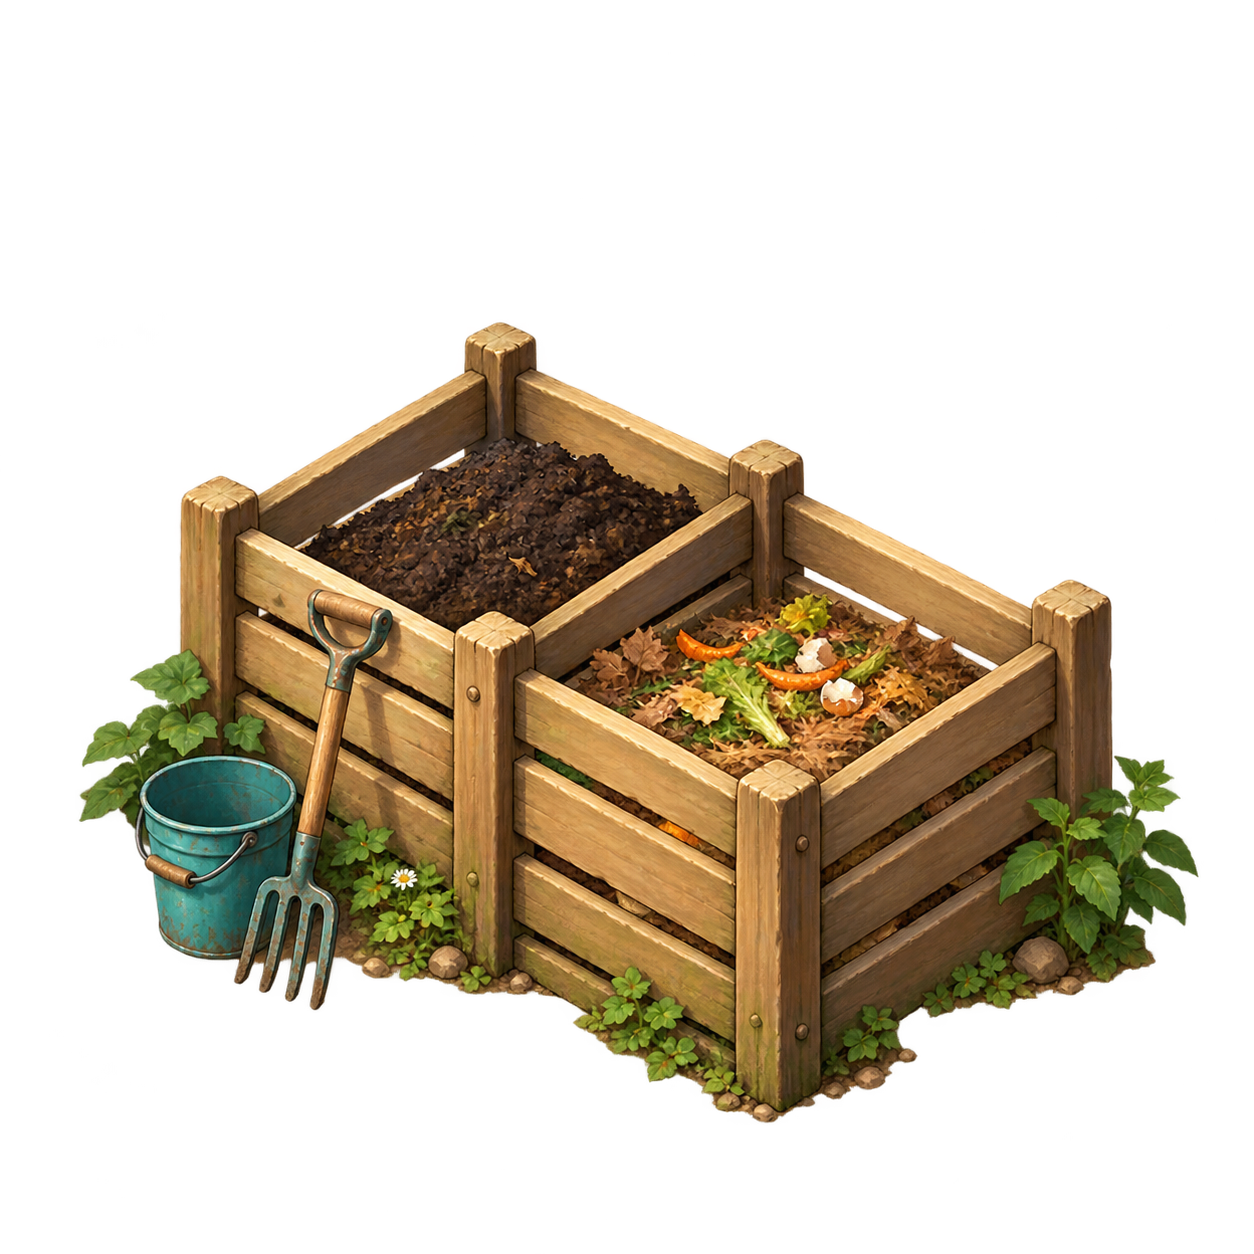
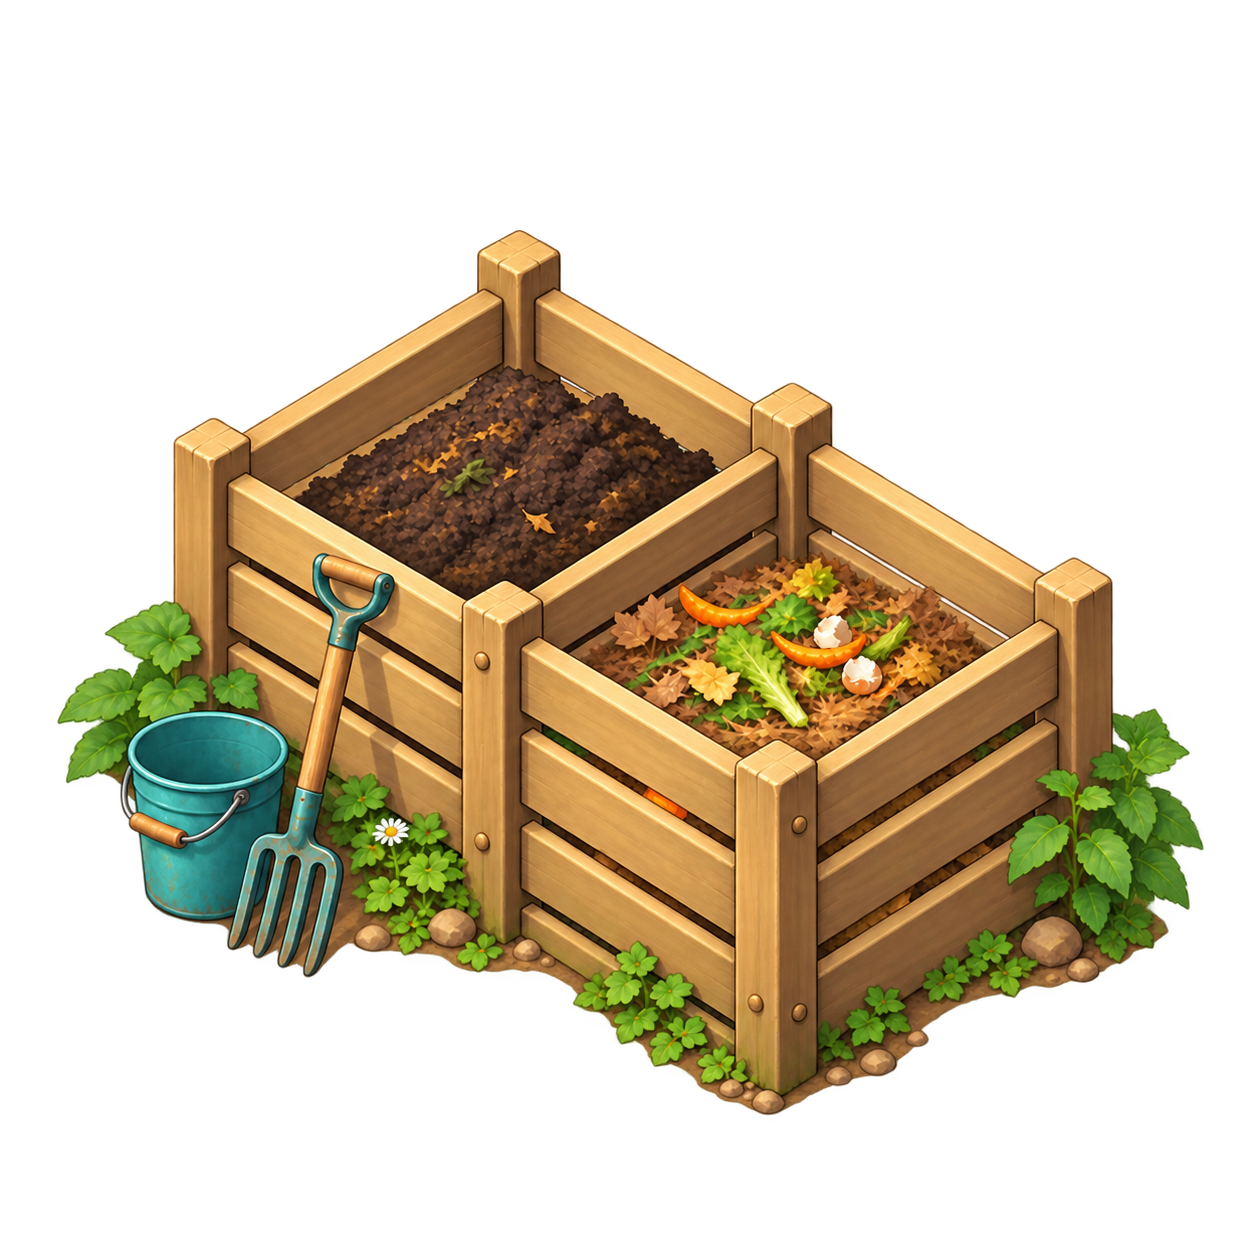
Unify building scales and camera calibration; remove obsolete sprites

diff --git a/web/artwork/index.html b/web/artwork/index.html
@@ -3,4 +3,4 @@
 <body><header><div><span class="eyebrow">SOLAR FRIENDS / DEVELOPMENT</span><h1>Artwork studio<span>✳</span></h1><p>A shared view of the village. One detail at a time.</p></div><a href="/">← Back to village</a></header>
 <main><section class="toolbar" aria-label="Library filters"><label>Find a sprite<input id="search" type="search" placeholder="Name, source file…"></label><label>Collection<select id="group"><option>All collections</option></select></label><label>Usage<select id="usage"><option>All artwork</option><option>Active</option><option>Reference</option></select></label><label>Review<select id="review-filter"><option>All reviews</option><option>Unreviewed</option><option>Needs work</option><option>Consistent</option></select></label><button id="export">Export review</button></section>
 <section class="workspace"><div class="library"><div class="section-title"><h2>Sprite library</h2><span id="count"></span></div><p class="hint">Select a sprite to inspect. Pin others for comparison.</p><div id="cards"></div></div>
-<aside><div class="section-title"><h2>Focus bench</h2><button id="clear">Clear pins</button></div><div class="controls"><label>Surface<select id="surface"><option value="checker">Transparency</option><option value="meadow">Meadow</option><option value="light">Light</option><option value="dark">Dark</option></select></label><label>Scale<select id="scale"><option value="fit">Fit each sprite</option><option value="game">Game scale × 1</option><option value="2">Game scale × 2</option></select></label><label><input id="guides" type="checkbox" checked> Ground guides</label></div><div class="controls"><label>Action<select id="action"><option value="0">Walk</option><option value="1">Build</option><option value="2">Idle</option><option value="3">Sit / sleep</option></select></label><button id="play" aria-pressed="false">Play animation</button><label>Frame <input id="frame" type="range" min="0" max="3" value="0"></label><label><input id="mirror" type="checkbox"> Mirror</label></div><div id="bench"></div><section class="review-panel"><span class="eyebrow">FOCUSED REVIEW</span><h3 id="selected-name"></h3><a id="source" target="_blank" rel="noopener">Open source artwork ↗</a><p id="metadata" class="hint"></p><label>Consistency status<select id="status"><option>Unreviewed</option><option>Needs work</option><option>Consistent</option></select></label><label>Review notes<textarea id="notes" rows="5" placeholder="Check camera angle, relative scale, palette, upper-left light, silhouette and ground contact…"></textarea></label><p id="save-state" class="hint" role="status">Notes stay in this browser. Export to share.</p></section><details><summary>Art direction checklist</summary><p>Warm painted Brazilian ecovila. Earthy cream, terracotta, leafy greens and restrained turquoise. Shared elevated 2:1 orthographic camera; upper-left light; clean silhouettes and transparent gutters. Keep fine detail readable at game scale.</p><p>Fit mode compares style. Game scale compares runtime widths and ground anchors; vegetation is shown at its base size. Terrain is shown as a source swatch, before world projection.</p></details></aside></section></main><script type="module" src="studio.js"></script></body></html>
+<aside><div class="section-title"><h2>Focus bench</h2><button id="clear">Clear pins</button></div><div class="controls"><label>Surface<select id="surface"><option value="checker">Transparency</option><option value="meadow">Meadow</option><option value="light">Light</option><option value="dark">Dark</option></select></label><label>Scale<select id="scale"><option value="game">Game scale × 1</option><option value="fit">Fit each sprite</option><option value="2">Game scale × 2</option></select></label><label><input id="guides" type="checkbox" checked> Ground guides</label></div><div class="controls"><label>Action<select id="action"><option value="0">Walk</option><option value="1">Build</option><option value="2">Idle</option><option value="3">Sit / sleep</option></select></label><button id="play" aria-pressed="false">Play animation</button><label>Frame <input id="frame" type="range" min="0" max="3" value="0"></label><label><input id="mirror" type="checkbox"> Mirror</label></div><div id="bench"></div><section class="review-panel"><span class="eyebrow">FOCUSED REVIEW</span><h3 id="selected-name"></h3><a id="source" target="_blank" rel="noopener">Open source artwork ↗</a><p id="metadata" class="hint"></p><label>Consistency status<select id="status"><option>Unreviewed</option><option>Needs work</option><option>Consistent</option></select></label><label>Review notes<textarea id="notes" rows="5" placeholder="Check camera angle, relative scale, palette, upper-left light, silhouette and ground contact…"></textarea></label><p id="save-state" class="hint" role="status">Notes stay in this browser. Export to share.</p></section><details><summary>Art direction checklist</summary><p>Warm painted Brazilian ecovila. Earthy cream, terracotta, leafy greens and restrained turquoise. Shared elevated 2:1 orthographic camera; upper-left light; clean silhouettes and transparent gutters. Keep fine detail readable at game scale.</p><p>Fit mode compares style. Game scale compares runtime widths and ground anchors; vegetation is shown at its base size. Terrain is shown as a source swatch, before world projection.</p></details></aside></section></main><script type="module" src="studio.js"></script></body></html>

diff --git a/web/main.js b/web/main.js
@@ -1,3 +1,4 @@
+import { buildingArt, drawBuildingArt } from './building-art.js';
 import { flock, drawChicken } from "./chickens.js";
 import { quests, buildingUnlocked, questStatus } from "./quests.js?v=ecology-coop-2";
 import { loadSettings, saveSettings } from "./settings.js";
@@ -55,17 +56,11 @@ const pastimes = {
   water: "Sitting and daydreaming",
 };
 const colors = ["#d8a044", "#588b83", "#d27a59", "#6a8e58", "#8580a0"];
-const atlas = new Image();
-atlas.src = "art/village-atlas-isometric.png";
-const gardenArt = new Image();
-gardenArt.src = "art/garden-simple-isometric.png";
-const questArt = Object.fromEntries(
-  ["compost", "square", "workshop", "coop"].map((kind) => {
-    const image = new Image();
-    image.src = `art/${kind}-isometric.png${kind === "coop" ? "?v=3" : ""}`;
-    return [kind, image];
-  }),
-);
+const buildingImages = Object.fromEntries(Object.entries(buildingArt).map(([kind, art]) => {
+  const image = new Image();
+  image.src = `art/${art.file}`;
+  return [kind, image];
+}));
 const terrain = new Image();
 terrain.src = "art/terrain-atlas.png";
 const peopleArt = new Image();
@@ -85,8 +80,6 @@ const forestSpecies = [
   { name: "Embaúba", width: 113 },
   { name: "Pau-brasil", width: 125 },
 ];
-const cisternArt = new Image();
-cisternArt.src = "art/cistern-isometric.png";
 let game,
   state,
   selected = null,
@@ -271,58 +264,14 @@ function tree(x, y, s = 1, species = 0) {
     w,
   );
 }
-function sprite(kind, x, y, size, alpha = 1) {
-  if (questArt[kind]) {
-    const p = iso(x, y),
-      w = size * scale;
-    ctx.save();
-    ctx.globalAlpha = alpha;
-    ctx.drawImage(questArt[kind], p.x - w / 2, p.y - w * 0.76, w, w);
-    ctx.restore();
-    return;
-  }
-  if (kind === "garden") {
-    const p = iso(x, y),
-      w = size * scale * 1.18;
-    // Calibrate the painted bed's ~20:11 footprint to the map's 2:1 axes.
-    const h = w * (10 / 11);
-    ctx.save();
-    ctx.globalAlpha = alpha;
-    ctx.drawImage(gardenArt, p.x - w / 2, p.y - h * 0.52, w, h);
-    ctx.restore();
-    return;
-  }
-  const p = iso(x, y),
-    cell = atlas.width / 2;
-  const index = { home: 0, kitchen: 1, garden: 2, grove: 3 }[kind];
-  if (index === undefined || !atlas.complete || !atlas.naturalWidth) return;
-  ctx.save();
-  ctx.globalAlpha = alpha;
-  const w = size * scale * 1.18;
-  const groundAnchor = { home: 0.7, kitchen: 0.7, garden: 0.59, grove: 0.74 }[
-    kind
-  ];
-  ctx.drawImage(
-    atlas,
-    (index % 2) * cell,
-    Math.floor(index / 2) * cell,
-    cell,
-    cell,
-    p.x - w / 2,
-    p.y - w * groundAnchor,
-    w,
-    w,
-  );
-  ctx.restore();
+function sprite(kind, x, y, alpha = 1) {
+  const art = buildingArt[kind];
+  if (!art) return;
+  const p = iso(x, y);
+  drawBuildingArt(ctx, buildingImages[kind], art, p.x, p.y, scale, alpha);
 }
 function cistern(x, y, alpha = 1) {
-  const p = iso(x, y),
-    w = 77 * scale;
-  contactShadow(p.x, p.y + 2 * scale, 25 * scale, 12.5 * scale);
-  ctx.save();
-  ctx.globalAlpha = alpha;
-  ctx.drawImage(cisternArt, p.x - w / 2, p.y - w * 0.82, w, w);
-  ctx.restore();
+  sprite('well', x, y, alpha);
 }
 function drawGrowingBed(b) {
   const corners = [
@@ -381,7 +330,8 @@ function drawResourceLabel(p, label, fraction, color) {
 function building(b) {
   const p = iso(b.x, b.y),
     complete = b.progress >= 100;
-  contactShadow(p.x + 9 * scale, p.y + 4 * scale, 50 * scale, 17 * scale, 0.16);
+  const shadowWidth = buildingArt[b.kind].width * .27 * scale;
+  contactShadow(p.x, p.y + 4 * scale, shadowWidth, shadowWidth / 2, 0.16);
   if (b.kind === "well") cistern(b.x, b.y, complete ? 1 : 0.45);
   else if (complete && b.kind === "garden" && b.crop.growth < 180)
     drawGrowingBed(b);
@@ -390,7 +340,6 @@ function building(b) {
       b.kind,
       b.x,
       b.y,
-      b.kind === "garden" ? 119 : b.kind === "grove" ? 105 : 152,
       complete ? 1 : 0.4,
     );
   if (complete && b.kind === "garden") {
@@ -612,7 +561,7 @@ function render() {
       valid ? "#fff8cf" : "#b75943",
     );
     if (tool === "well") cistern(t.x, t.y, 0.6);
-    else sprite(tool, t.x, t.y, tool === "garden" ? 119 : 152, 0.55);
+    else sprite(tool, t.x, t.y, 0.55);
   }
   // Tiny birds drifting past the clearing.
   if (!matchMedia("(prefers-reduced-motion: reduce)").matches) {
@@ -1254,11 +1203,8 @@ function setup() {
 try {
   await init({ module_or_path: "./pkg/solar_friends_bg.wasm?v=ecology-coop-2" });
   await Promise.all([
-    atlas.decode(),
-    gardenArt.decode(),
-    ...Object.values(questArt).map((image) => image.decode()),
+    ...Object.values(buildingImages).map((image) => image.decode()),
     forestArt.decode(),
-    cisternArt.decode(),
     terrain.decode(),
     peopleArt.decode(),
     ...animations.map((image) => image.decode()),

diff --git a/web/artwork/catalog.js b/web/artwork/catalog.js
@@ -1,15 +1,15 @@
+import { buildingArt } from '../building-art.js';
 // Cell coordinates are fractions of the original image; originals are never rewritten.
 export const catalog = [];
 function add(id, name, file, group, options = {}) {
   catalog.push({ id, name, file: `../art/${file}`, group, usage: 'Active', cell: [0, 0, 1, 1], width: 152, anchor: .76, ...options });
 }
-for (const [file, usage] of [['village-atlas-isometric.png', 'Active'], ['village-atlas.png', 'Reference']]) {
-  ['Home', 'Kitchen', 'Garden (atlas)', 'Banana grove'].forEach((name, i) => add(`${file}-${i}`, name, file, 'Buildings', { usage: i === 2 ? 'Reference' : usage, cell: [i % 2 / 2, Math.floor(i / 2) / 2, .5, .5], width: (i === 3 ? 105 : 152) * 1.18, anchor: [.7,.7,.59,.74][i] }));
+for (const [kind, art] of Object.entries(buildingArt)) {
+  const id = { home: 'village-atlas-isometric.png-0', kitchen: 'village-atlas-isometric.png-1', grove: 'village-atlas-isometric.png-3', garden: 'garden-simple', well: 'cistern' }[kind] || kind;
+  add(id, art.name, art.file, 'Buildings', { ...art, file: `../art/${art.file}`, building: true });
 }
-for (const [id, name, width, anchor, aspect] of [['garden-simple','Garden',119*1.18,.52,10/11],['cistern','Cistern',77,.82,1],['compost','Compost station',152,.76,1],['square','Community square',152,.76,1],['workshop','Workshop',152,.76,1],['coop','Chicken coop',152,.76,1]]) add(id,name,`${id}-isometric.png`,'Buildings',{width,anchor,aspect});
 ['Jequitibá-rosa','Juçara','Embaúba','Pau-brasil'].forEach((name,i) => add(`forest-${i}`,name,'mata-atlantica-atlas.png','Vegetation',{cell:[i%2/2,Math.floor(i/2)/2,.5,.5],width:[145,112,113,125][i],anchor:.85}));
-for (const file of ['mango-tree.png','mango-tree-isometric.png']) add(file,'Mango tree',file,'Vegetation',{usage:'Reference',anchor:.85});
 ['Meadow','Red earth'].forEach((name,i) => add(`terrain-${i}`,name,'terrain-atlas.png','Terrain',{cell:[i/2,0,.5,1],anchor:.5}));
-['Iara','Bento','Luz','Cauã','Nina','Original cistern'].forEach((name,i) => add(`portrait-${i}`,name,'residents-cistern.png','Portraits',{cell:[i%3/3,Math.floor(i/3)/2,1/3,.5],usage:i===5?'Reference':'Active',width:43,anchor:.97}));
+['Iara','Bento','Luz','Cauã','Nina'].forEach((name,i) => add(`portrait-${i}`,name,'residents-cistern.png','Portraits',{cell:[i%3/3,Math.floor(i/3)/2,1/3,.5],width:43,anchor:.97}));
 ['iara','bento','luz','caua','nina'].forEach((id,i) => add(id,['Iara','Bento','Luz','Cauã','Nina'][i],`animations/${id}.png`,'Animations',{animation:true,width:43,anchor:.97}));
 ['Cream','Ochre','Brown'].forEach((name,i) => catalog.push({id:`hen-${i}`,name:`${name} chicken`,group:'Animals',usage:'Active',procedural:true,color:['#fff3d6','#c58b51','#62513f'][i],width:26,anchor:1}));

diff --git a/web/building-art.js b/web/building-art.js
@@ -1,0 +1,38 @@
+// Canonical runtime sizes and measured ground-axis slopes for the painted assets.
+// Width is the full source-cell width at zoom 1, including transparent padding.
+// Axis calibration keeps verticals vertical and maps the two measured ground
+// directions to the same +/- 1/2 slopes used by projection.js.
+import { TILE_HALF_HEIGHT, TILE_HALF_WIDTH } from './projection.js';
+const atlas = 'village-atlas-isometric.png';
+export const buildingArt = {
+  home: { name: 'Home', file: atlas, cell: [0, 0, .5, .5], width: 179.36, anchor: .70, axes: [.50, -.50] },
+  kitchen: { name: 'Kitchen', file: atlas, cell: [.5, 0, .5, .5], width: 179.36, anchor: .70, axes: [.58, -.58] },
+  grove: { name: 'Banana grove', file: atlas, cell: [.5, .5, .5, .5], width: 123.9, anchor: .74 },
+  garden: { name: 'Garden', file: 'garden-simple-isometric.png', width: 140.42, anchor: .52, axes: [.55, -.55] },
+  well: { name: 'Cistern', file: 'cistern-isometric.png', width: 77, anchor: .82, axes: [.55, -.55] },
+  compost: { name: 'Compost station', file: 'compost-isometric.png', width: 78, anchor: .75, axes: [.60, -.60] },
+  square: { name: 'Community square', file: 'square-isometric.png', width: 172, anchor: .73, axes: [.50, -.50] },
+  workshop: { name: 'Workshop', file: 'workshop-isometric.png', width: 158, anchor: .81, axes: [.52, -.42] },
+  coop: { name: 'Chicken coop', file: 'coop-isometric.png', width: 100, anchor: .76, axes: [.55, -.40] },
+};
+export function cameraCalibration(art) {
+  if (!art.axes) return { vertical: 1, shear: 0 };
+  const [right, left] = art.axes;
+  const slope = TILE_HALF_HEIGHT / TILE_HALF_WIDTH;
+  const vertical = 2 * slope / (right - left);
+  return { vertical, shear: slope - vertical * right };
+}
+export function drawBuildingArt(ctx, image, art, x, y, scale = 1, alpha = 1) {
+  if (!image?.complete || !image.naturalWidth) return;
+  const [cx, cy, cw, ch] = art.cell || [0, 0, 1, 1];
+  const w = art.width * scale;
+  const { vertical, shear } = cameraCalibration(art);
+  ctx.save();
+  ctx.globalAlpha *= alpha;
+  ctx.translate(x, y);
+  ctx.transform(1, shear, 0, vertical, 0, 0);
+  ctx.drawImage(image, cx * image.naturalWidth, cy * image.naturalHeight,
+    cw * image.naturalWidth, ch * image.naturalHeight,
+    -w / 2, -w * art.anchor, w, w);
+  ctx.restore();
+}

diff --git a/web/artwork/studio.js b/web/artwork/studio.js
@@ -1,3 +1,4 @@
+import { drawBuildingArt } from '../building-art.js';
 import { catalog } from './catalog.js';
 import { drawChicken } from '../chickens.js';
 const $ = id => document.getElementById(id);
@@ -17,7 +18,7 @@ function draw(canvas, sprite, bench = false) {
   const ratio = window.devicePixelRatio || 1;
   canvas.width = width * ratio; canvas.height = height * ratio;
   const ctx = canvas.getContext('2d'); ctx.scale(ratio, ratio);
-  const mode = bench ? $('scale').value : 'fit';
+  const mode = bench ? $('scale').value : '0.65';
   let w = mode === 'fit' ? Math.min(width * .86, height * .84) : sprite.width * Number(mode === 'game' ? 1 : mode);
   const h = w * (sprite.aspect || 1), anchor = sprite.anchor ?? .76;
   const y = mode === 'fit' ? (height - h) / 2 + h * anchor : height * .77;
@@ -28,7 +29,9 @@ function draw(canvas, sprite, bench = false) {
   }
   ctx.save();ctx.translate(width/2,y);if (bench && $('mirror').checked) ctx.scale(-1,1);
   if (sprite.procedural) drawChicken(ctx,{x:0,y:0},w/26,{color:sprite.color,facing:1,peck:playing ? frame : 0});
-  else {
+  else if (sprite.building) {
+    drawBuildingArt(ctx, images.get(sprite.file), sprite, 0, 0, w / sprite.width);
+  } else {
     const img = images.get(sprite.file);
     if (!img?.complete || !img.naturalWidth) { ctx.restore();ctx.fillStyle='#9b4b37';ctx.font='12px sans-serif';ctx.fillText(img?.complete ? 'Artwork unavailable' : 'Loading…',10,25);return; }
     const cell = sprite.animation ? [(bench ? frame : 0)/4,Number($('action').value)/4,.25,.25] : sprite.cell;
